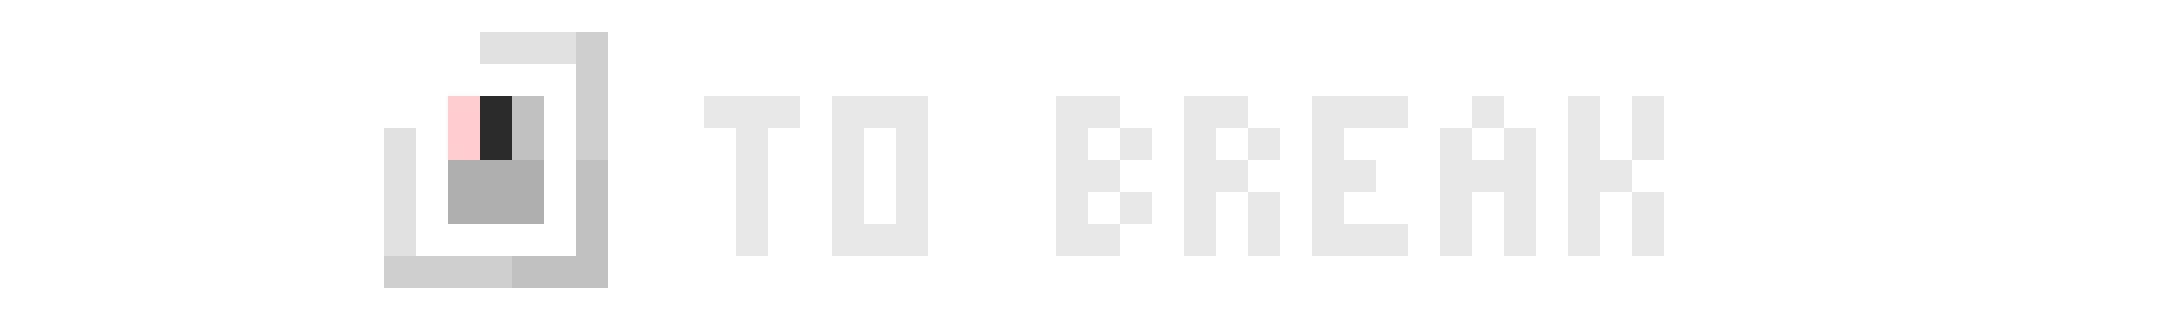
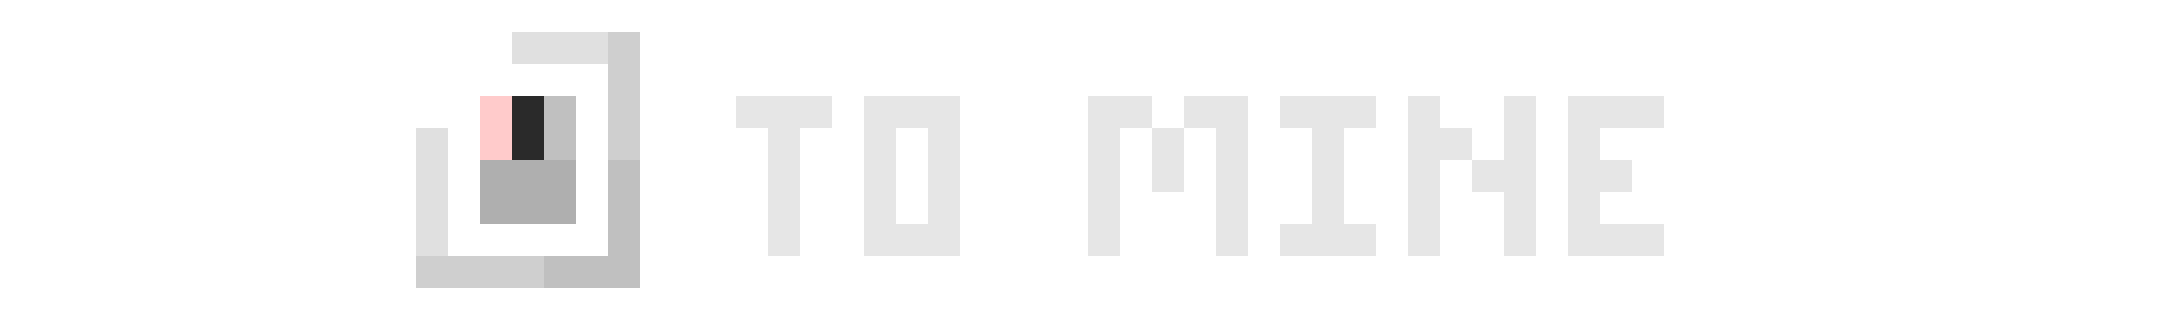
Artwork changes

Changed region(s): [[0.1562, 0.0938, 0.75, 0.9062], [0.7188, 0.5938, 0.7812, 0.8125], [0.75, 0.4062, 0.7812, 0.5]]

diff --git a/runme.py b/runme.py
@@ -21,7 +21,7 @@ oxygenMinutes = 20
 oxygenDepletePerSecond = 1 / (oxygenMinutes * 60)
 
 backpackSlots = 4
-inventoryItems = [ { "item": "pickaxe", "quantity": 1 }, { "item": "drill", "quantity": 10 } ]
+inventoryItems = [ { "item": "pickaxe", "quantity": 1 }, { "item": "smelter", "quantity": 10 } ]
 
 selectedHand = 1
 
@@ -50,6 +50,12 @@ itemTypes = {
     "drill": {
         "path": "drill.png",
         "name": "Drill",
+        "canMine": False,
+        "canBuild": True
+    },
+    "smelter": {
+        "path": "smelter.png",
+        "name": "Smelter",
         "canMine": False,
         "canBuild": True
     }
@@ -268,6 +274,12 @@ chunkStructures = {
         "isOre": False,
         "animated": True,
         "columns": 14
+    },
+    "smelter": {
+        "path": "smelter.png",
+        "breakTime": 4,
+        "isOre": False,
+        "animated": False,
     }
 }
 
@@ -474,8 +486,8 @@ def drawGame():
         if itemTypes[inventoryItems[selectedHand - 1]["item"]]["canMine"] == True:
             miningOres = True
 
-    closestOre = 100000
-    closestOreData = {
+    closestDestruct = 100000
+    closestDestructData = {
         "x": 0,
         "y": 0,
         "screenX": 0,
@@ -557,15 +569,21 @@ def drawGame():
 
                     if miningOres == True:
                         distanceToOre = distance(structureX + tileSize / 2, structureY + tileSize / 2, window.width / 2, window.height / 2)
-                        if distanceToOre < closestOre:
-                            closestOre = distanceToOre
-                            closestOreData["x"] = tileWorldX
-                            closestOreData["y"] = tileWorldY
+                        if distanceToOre < closestDestruct:
+                            closestDestruct = distanceToOre
+                            closestDestructData["x"] = tileWorldX
+                            closestDestructData["y"] = tileWorldY
 
-                            closestOreData["screenX"] = structureX
-                            closestOreData["screenY"] = structureY
+                            closestDestructData["screenX"] = structureX
+                            closestDestructData["screenY"] = structureY
 
-                            closestOreData["data"] = structureData
+                            closestDestructData["data"] = structureData
+
+                            if chunkStructure == "ironOre" or chunkStructure == "carbonOre":
+                                closestDestructData["type"] = "ToMine"
+                            else:
+                                closestDestructData["type"] = "ToBreak"
+                                closestDestructData["item"] = chunkStructure
 
                     sprite.x = structureX
                     sprite.y = structureY
@@ -675,48 +693,52 @@ def drawGame():
     towardsRocket.draw()
     
     
-    if closestOre != 100000:
-        if closestOre < 300:
-            hintX = closestOreData["screenX"] + tileSize / 4
-            hintY = closestOreData["screenY"] + tileSize / 2
+    if closestDestruct != 100000:
+        if closestDestruct < 300:
+            hintX = closestDestructData["screenX"] + tileSize / 4
+            hintY = closestDestructData["screenY"] + tileSize / 2
 
-            ShowUIHint(hintX, hintY, "ToMine")
+            ShowUIHint(hintX, hintY, closestDestructData["type"])
 
-            bar = shapes.Rectangle(
-                x = hintX - 250,
-                y = hintY - 250,
-                width = 500,
-                height = 50,
-                color = ( 100, 100, 100 )
-            )
-            bar.opacity = 150
-            bar.draw()
+            if BreakTime > 0:
+                bar = shapes.Rectangle(
+                    x = hintX - 240,
+                    y = hintY - 250,
+                    width = 500,
+                    height = 50,
+                    color = ( 100, 100, 100 )
+                )
+                bar.opacity = 150
+                bar.draw()
 
-            filled = shapes.Rectangle(
-                x = hintX - 245,
-                y = hintY - 245,
-                width = 490 * (BreakTime / closestOreData["data"]["breakTime"]),
-                height = 40,
-                color = ( 25, 100, 25 )
-            )
-            filled.opacity = 150
-            filled.draw()
+                filled = shapes.Rectangle(
+                    x = hintX - 235,
+                    y = hintY - 245,
+                    width = 490 * (BreakTime / closestDestructData["data"]["breakTime"]),
+                    height = 40,
+                    color = ( 25, 100, 25 )
+                )
+                filled.opacity = 150
+                filled.draw()
         else:
             BreakTime = 0
     else:
         BreakTime = 0
 
-    if closestOreData["data"] == 0:
-        closestOreData["data"] = {
+    if closestDestructData["data"] == 0:
+        closestDestructData["data"] = {
             "breakTime": 1
         }
 
-    if BreakTime >= closestOreData["data"]["breakTime"]:
-        structuresGenerated[str(closestOreData["x"]) + "_" + str(closestOreData["y"])] = 0
-        for give in closestOreData["data"]["gives"]:
-            amount = random.randint(give["min"], give["max"])
-            giveItem(give["item"], amount)
-        BreakTime = 0
+    if BreakTime >= closestDestructData["data"]["breakTime"]:
+        structuresGenerated[str(closestDestructData["x"]) + "_" + str(closestDestructData["y"])] = 0
+        if closestDestructData["data"]["isOre"]:
+            for give in closestDestructData["data"]["gives"]:
+                amount = random.randint(give["min"], give["max"])
+                giveItem(give["item"], amount)
+            BreakTime = 0
+        else:
+            giveItem(closestDestructData["item"], 1)
 
     LMBClicked = False
 
@@ -1195,6 +1217,17 @@ def drawSlot(slotX, slotY, color, item, label, clickCallback = None, callbackPar
     )
     if mouseX > slotX and mouseY > slotY and mouseX < slotX + slotSize and mouseY < slotY + slotSize:
         slotSquare.opacity = 255
+        
+        if not item["item"] == 0:
+            slotItemLabel = pyglet.text.Label(itemTypes[item["item"]]["name"],
+                font_name = "Press Start 2P",
+                font_size = 15,
+                x = slotX + 5,
+                y = slotY - 5,
+                color = (255, 255, 255, 255),
+                anchor_x = "left", anchor_y = "top")
+            slotItemLabel.draw()
+
         if LMBClicked == True:
             if not clickCallback == None:
                 if callbackParameters == None:
